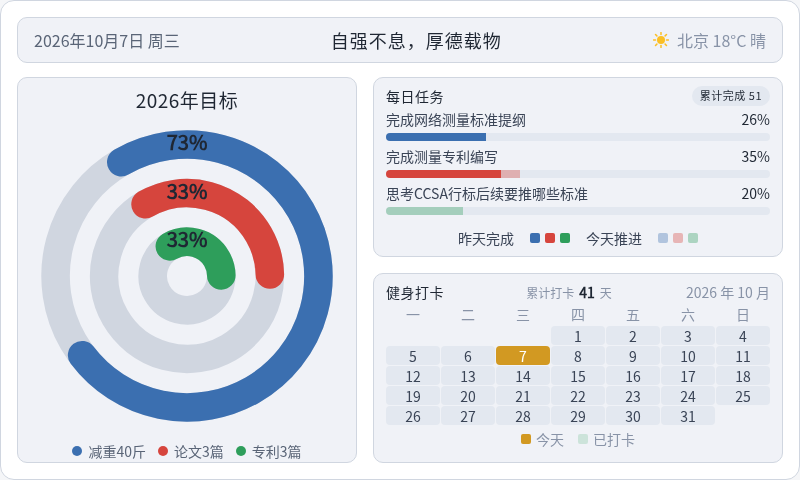
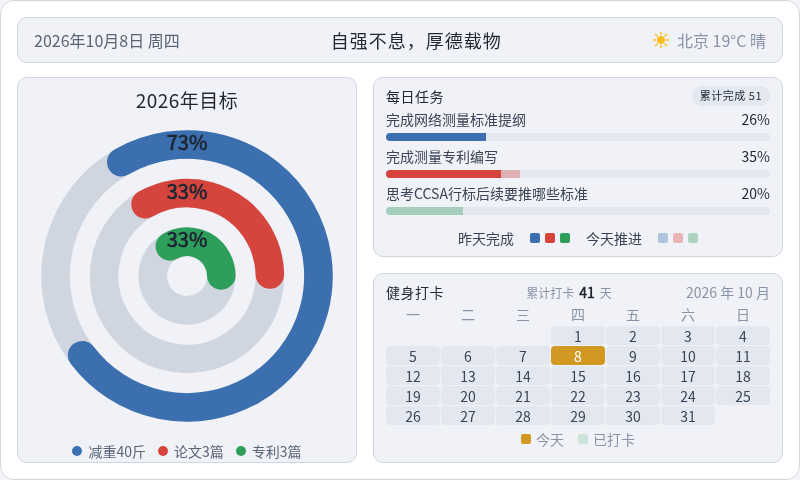
chore: 每日看板刷新 2026-10-08

Changed region(s): [[0.5938, 0.7188, 0.7812, 0.7812], [0.1875, 0.0625, 0.2188, 0.0938]]

diff --git a/output/dashboard/dashboard.html b/output/dashboard/dashboard.html
@@ -185,11 +185,11 @@
 <body>
   <div class="dash">
     <div class="topbar">
-      <div class="tb-date" id="tbDate">2026年10月7日 周三</div>
+      <div class="tb-date" id="tbDate">2026年10月8日 周四</div>
       <div class="tb-slogan">自强不息，厚德载物</div>
       <div class="tb-weather">
         <svg width="16" height="16" viewBox="0 0 16 16" aria-hidden="true"><circle cx="8" cy="8" r="4" fill="#fbbf24"/><g stroke="#fbbf24" stroke-width="1.5" stroke-linecap="round"><line x1="8" y1="0.5" x2="8" y2="2.5"/><line x1="8" y1="13.5" x2="8" y2="15.5"/><line x1="0.5" y1="8" x2="2.5" y2="8"/><line x1="13.5" y1="8" x2="15.5" y2="8"/><line x1="2.5" y1="2.5" x2="3.9" y2="3.9"/><line x1="12.1" y1="12.1" x2="13.5" y2="13.5"/><line x1="13.5" y1="2.5" x2="12.1" y2="3.9"/><line x1="3.9" y1="12.1" x2="2.5" y2="13.5"/></g></svg>
-        <span>北京 18°C 晴</span>
+        <span>北京 19°C 晴</span>
       </div>
     </div>
     <div class="content">
@@ -248,7 +248,7 @@
           <span class="cal-date">2026 年 10 月</span>
         </div>
         <div class="cal-grid wk"><span>一</span><span>二</span><span>三</span><span>四</span><span>五</span><span>六</span><span>日</span></div>
-        <div class="cal-grid"><span class="cell empty"></span><span class="cell empty"></span><span class="cell empty"></span><span class="cell" style="background:#e3e8f0;color:#3a4456">1</span><span class="cell" style="background:#e3e8f0;color:#3a4456">2</span><span class="cell" style="background:#e3e8f0;color:#3a4456">3</span><span class="cell" style="background:#e3e8f0;color:#3a4456">4</span><span class="cell" style="background:#e3e8f0;color:#3a4456">5</span><span class="cell" style="background:#e3e8f0;color:#3a4456">6</span><span class="cell today" style="background:#d29922;color:#ffffff">7</span><span class="cell" style="background:#e3e8f0;color:#3a4456">8</span><span class="cell" style="background:#e3e8f0;color:#3a4456">9</span><span class="cell" style="background:#e3e8f0;color:#3a4456">10</span><span class="cell" style="background:#e3e8f0;color:#3a4456">11</span><span class="cell" style="background:#e3e8f0;color:#3a4456">12</span><span class="cell" style="background:#e3e8f0;color:#3a4456">13</span><span class="cell" style="background:#e3e8f0;color:#3a4456">14</span><span class="cell" style="background:#e3e8f0;color:#3a4456">15</span><span class="cell" style="background:#e3e8f0;color:#3a4456">16</span><span class="cell" style="background:#e3e8f0;color:#3a4456">17</span><span class="cell" style="background:#e3e8f0;color:#3a4456">18</span><span class="cell" style="background:#e3e8f0;color:#3a4456">19</span><span class="cell" style="background:#e3e8f0;color:#3a4456">20</span><span class="cell" style="background:#e3e8f0;color:#3a4456">21</span><span class="cell" style="background:#e3e8f0;color:#3a4456">22</span><span class="cell" style="background:#e3e8f0;color:#3a4456">23</span><span class="cell" style="background:#e3e8f0;color:#3a4456">24</span><span class="cell" style="background:#e3e8f0;color:#3a4456">25</span><span class="cell" style="background:#e3e8f0;color:#3a4456">26</span><span class="cell" style="background:#e3e8f0;color:#3a4456">27</span><span class="cell" style="background:#e3e8f0;color:#3a4456">28</span><span class="cell" style="background:#e3e8f0;color:#3a4456">29</span><span class="cell" style="background:#e3e8f0;color:#3a4456">30</span><span class="cell" style="background:#e3e8f0;color:#3a4456">31</span></div>
+        <div class="cal-grid"><span class="cell empty"></span><span class="cell empty"></span><span class="cell empty"></span><span class="cell" style="background:#e3e8f0;color:#3a4456">1</span><span class="cell" style="background:#e3e8f0;color:#3a4456">2</span><span class="cell" style="background:#e3e8f0;color:#3a4456">3</span><span class="cell" style="background:#e3e8f0;color:#3a4456">4</span><span class="cell" style="background:#e3e8f0;color:#3a4456">5</span><span class="cell" style="background:#e3e8f0;color:#3a4456">6</span><span class="cell" style="background:#e3e8f0;color:#3a4456">7</span><span class="cell today" style="background:#d29922;color:#ffffff">8</span><span class="cell" style="background:#e3e8f0;color:#3a4456">9</span><span class="cell" style="background:#e3e8f0;color:#3a4456">10</span><span class="cell" style="background:#e3e8f0;color:#3a4456">11</span><span class="cell" style="background:#e3e8f0;color:#3a4456">12</span><span class="cell" style="background:#e3e8f0;color:#3a4456">13</span><span class="cell" style="background:#e3e8f0;color:#3a4456">14</span><span class="cell" style="background:#e3e8f0;color:#3a4456">15</span><span class="cell" style="background:#e3e8f0;color:#3a4456">16</span><span class="cell" style="background:#e3e8f0;color:#3a4456">17</span><span class="cell" style="background:#e3e8f0;color:#3a4456">18</span><span class="cell" style="background:#e3e8f0;color:#3a4456">19</span><span class="cell" style="background:#e3e8f0;color:#3a4456">20</span><span class="cell" style="background:#e3e8f0;color:#3a4456">21</span><span class="cell" style="background:#e3e8f0;color:#3a4456">22</span><span class="cell" style="background:#e3e8f0;color:#3a4456">23</span><span class="cell" style="background:#e3e8f0;color:#3a4456">24</span><span class="cell" style="background:#e3e8f0;color:#3a4456">25</span><span class="cell" style="background:#e3e8f0;color:#3a4456">26</span><span class="cell" style="background:#e3e8f0;color:#3a4456">27</span><span class="cell" style="background:#e3e8f0;color:#3a4456">28</span><span class="cell" style="background:#e3e8f0;color:#3a4456">29</span><span class="cell" style="background:#e3e8f0;color:#3a4456">30</span><span class="cell" style="background:#e3e8f0;color:#3a4456">31</span></div>
         <div class="cal-legend">
           <span style="color:#8893a7"><i class="sw" style="background:#d29922"></i>今天</span>
           <span style="color:#8893a7"><i class="sw" style="background:rgba(46,158,91,0.18)"></i>已打卡</span>
